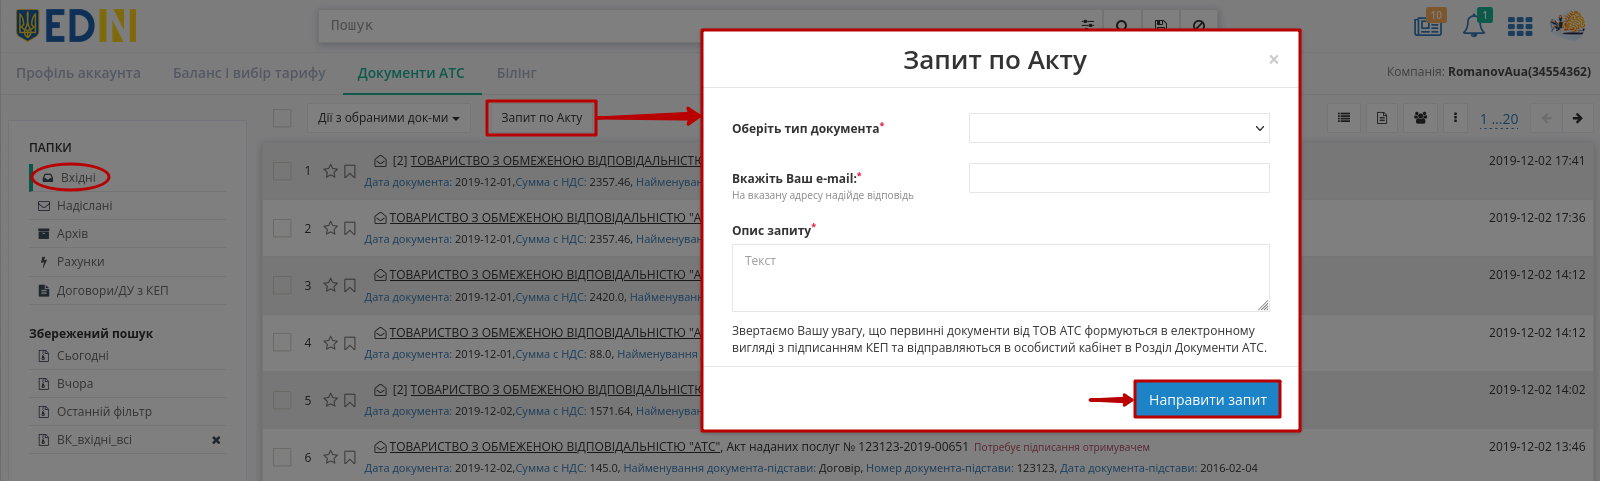
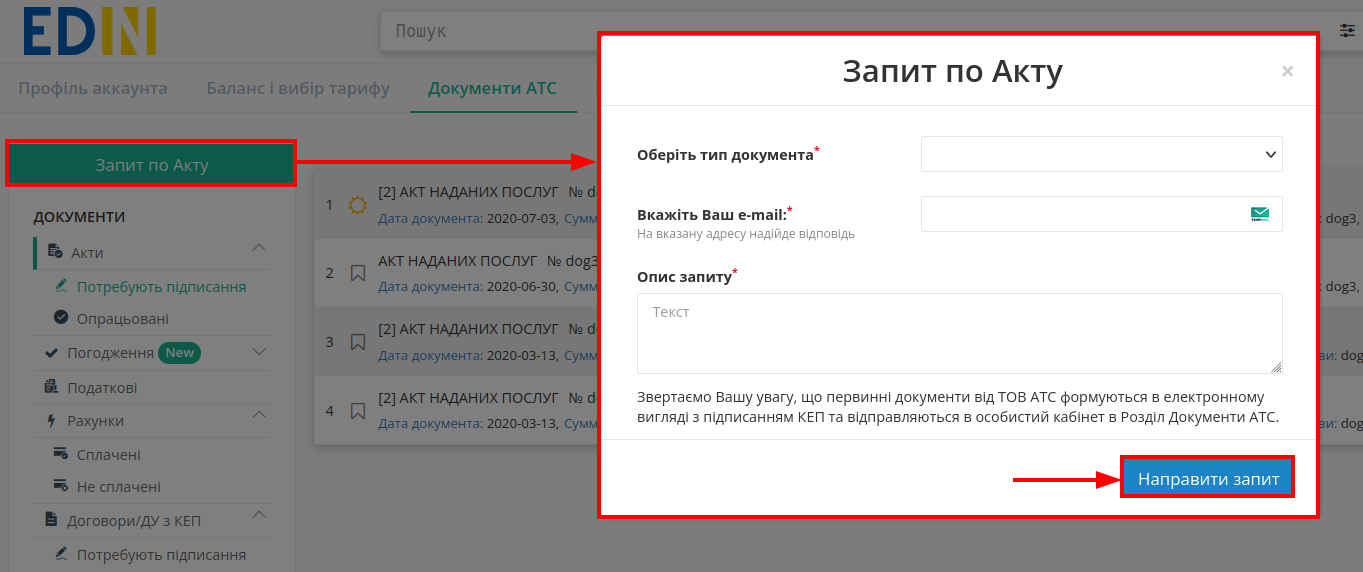
GLN_logo+

diff --git a/docs/Personal_Cabinet/PCInstruction.rst b/docs/Personal_Cabinet/PCInstruction.rst
@@ -809,28 +809,26 @@ WEB-платформа завжди нагадає, якщо у Вас є нео
 
 Відправка документа потребує його підписання (накладання підпису - стандартна операція на платформі, що `описана в розділі вище <https://wiki.edin.ua/uk/latest/Personal_Cabinet/PCInstruction.html#sign>`__. Після успішного підписання документа він автоматично відправляється в ТОВ "АТС" і відображається в журналі зі статусом :green:`Відправлений` чи :red:`Необхідний підпис провайдера`, якщо при відправці було обрано значення "Потребує підписання провайдером ТОВ АТС".
 
-.. забули вивантажити (to do)
+.. _act-request:
 
-   .. _act-request:
+**1.3.6 Запит по Акту**
+~~~~~~~~~~~~~~~~~~~~~~~~~~~~~~~~~~~~~~~~~~~~~~~~~~~~~~
 
-   **1.3.3 Запит по Акту**
-   ~~~~~~~~~~~~~~~~~~~~~~~~~~~~~~~~~~~~~~~~~~~~~~~~~~~~~~
+Функціонал доступний в папці **Вхідні** і дозволяє зробити **"Запит по Акту"** в компанію ТОВ "АТС" прямо з платформи:
 
-   Функціонал доступний в папці **Вхідні** і дозволяє зробити **"Запит по Акту"** в компанію ТОВ "АТС" прямо з платформи:
+.. image:: pics_PCInstruction/PCInstruction_259.png
+   :align: center
 
-   .. image:: pics_PCInstruction/PCInstruction_259.png
-      :align: center
+Після натискання на кнопку **"Запит по Акту"** відкривається модальне вікно з полями, що є обов'язковими до заповнення: "Тип документа" (Акт / Акт звірки), "Ваш e-mail", "Опис запиту". Після того, як Ви введете дані по запиту можливо **"Направити запит"** в компанію ТОВ "АТС". Про успішну відправку запиту Ви будете проінформовані сповіщенням на платформі:
 
-   Після натискання на кнопку **"Запит по Акту"** відкривається модальне вікно з полями, що є обов'язковими до заповнення: "Тип документа" (Акт / Акт звірки), "Ваш e-mail", "Опис запиту". Після того, як Ви введете дані по запиту можливо **"Направити запит"** в компанію ТОВ "АТС". Про успішну відправку запиту Ви будете проінформовані сповіщенням на платформі:
+.. image:: pics_PCInstruction/PCInstruction_260.png
+   :align: center
 
-   .. image:: pics_PCInstruction/PCInstruction_260.png
-      :align: center
-
-   Первинні документи від ТОВ "АТС" формуються в електронному вигляді з підписанням КЕП - Ви отримаєте їх у папці **Вхідні**. Додатково (за потреби) на вказаний e-mail може бути надіслано роз'яснення та копія документа.
+Первинні документи від ТОВ "АТС" формуються в електронному вигляді з підписанням КЕП - Ви отримаєте їх у розділі **Документи АТС**. Додатково (за потреби) на вказаний e-mail може бути надіслано роз'яснення та копія документа.
 
 .. _contracts-kep:
 
-**1.3.6 Надіслані**
+**1.3.7 Надіслані**
 ~~~~~~~~~~~~~~~~~~~~~~~~~~~~~~~~~~~~~~~~~~~~~~~~~~~~~~
 
 **"Надіслані"** містить всі вихідні документи для компанії-провайдера (відправлені в ТОВ "АТС").
@@ -840,7 +838,7 @@ WEB-платформа завжди нагадає, якщо у Вас є нео
 
 .. _signatories:
 
-**1.3.7 Підписанти**
+**1.3.8 Підписанти**
 ~~~~~~~~~~~~~~~~~~~~~~~~~~~~~~~~~~~~~~~~~~~~~~~~~~~~~~
 
 Користувачі можуть самостійно заповнювати/редагувати дані підписантів компанії, розділені по блокам:
@@ -1266,8 +1264,16 @@ WEB-платформа завжди нагадає, якщо у Вас є нео
 
 Після **створення** нового користувача автоматично відкривається **Форма редагування GLN**, в якій можливо змінити/доповнити **основну** інформацію:
 
-.. image:: pics_PCInstruction/PCInstruction_288.png
+.. image:: pics_PCInstruction/PCInstruction_309.png
    :align: center
+
+При **створенні** чи **редагуванні** **Основного GLN** можливо **"Завантажити логотип"** (за допомогою відповідної кнопки), що буде відображатись контрагентам:
+
+.. image:: pics_PCInstruction/PCInstruction_310.png
+   :align: center
+
+.. attention::
+   Для завантаження дозволені jpeg файли розміром не більше 1Мб зі співвідношенням сторін 3 до 1 (ширина / висота).
 
 .. _gln-main-additional: 
 

diff --git a/docs/API_PC/API_PC_list.rst b/docs/API_PC/API_PC_list.rst
@@ -222,6 +222,37 @@ API
    Methods/PutNotificationsSettings
    Methods/DelNotificationsSettings
 
+.. _gln-logo:
+
+Керування логотипами GLN
+============================
+
++-----------+------------------------------+----------------------------------------------------------------------------------------------------------+
+| **Метод** |        **URL запиту**        |                                                 **Опис**                                                 |
++===========+==============================+==========================================================================================================+
+| GET       | ``/api/oas/identifier/logo`` | `Отримати логотипи GLN <https://wiki.edin.ua/uk/latest/API_PC/Methods/GetIdentifierLogo.html>`__         |
++-----------+------------------------------+----------------------------------------------------------------------------------------------------------+
+| POST      | ``/api/oas/identifier/logo`` | `Додати / оновити логотип GLN <https://wiki.edin.ua/uk/latest/API_PC/Methods/PostIdentifierLogo.html>`__ |
++-----------+------------------------------+----------------------------------------------------------------------------------------------------------+
+| DELETE    | ``/api/oas/identifier/logo`` | `Видалити логотип GLN <https://wiki.edin.ua/uk/latest/API_PC/Methods/DelIdentifierLogo.html>`__          |
++-----------+------------------------------+----------------------------------------------------------------------------------------------------------+
+
+.. beauty list
+
+.. toctree::
+   :hidden:
+   :glob:
+
+   Methods/GetIdentifierLogo
+   Methods/PostIdentifierLogo
+   Methods/DelIdentifierLogo
+
+
+
+
+
+
+
 
 
 .. old auto list (deprecated)

diff --git a/docs/API_PC/Methods/EveryBody/GetIdentifierLogoResponse.rst b/docs/API_PC/Methods/EveryBody/GetIdentifierLogoResponse.rst
@@ -1,0 +1,34 @@
+#########################################################################
+**Дані прикріплених логотипів GLN**
+#########################################################################
+
+**JSON:**
+
+.. code:: json
+
+	[
+	    {
+	        "id": 176376,
+	        "mediaType": "image/jpeg",
+	        "logoBase64": "/9j.../3d"
+	    },
+	    {
+	        "id": 13200757,
+	        "mediaType": "image/jpeg",
+	        "logoBase64": "/9...jZ"
+	    },
+	    {
+	        "id": 13202863,
+	        "mediaType": "image/jpeg",
+	        "logoBase64": "/9j.../003d"
+	    }
+	]
+
+Таблиця 1 - Опис параметрів
+
+.. csv-table:: 
+  :file: for_csv/IdentifierLogo.csv
+  :widths:  1, 19, 41
+  :header-rows: 1
+  :stub-columns: 0
+

diff --git a/docs/API_PC/Methods/PostIdentifierLogo.rst b/docs/API_PC/Methods/PostIdentifierLogo.rst
@@ -1,0 +1,17 @@
+#############################################################################
+**Додати / оновити логотип GLN**
+#############################################################################
+
+Для роботи з цим методом користувач повинен бути `авторизованим <https://wiki.edin.ua/uk/latest/API_PC/Methods/Authorization.html>`__.
+
+.. attention::
+   Для завантаження дозволені jpeg файли розміром не більше 1Мб зі співвідношенням сторін 3 до 1 (ширина / висота).
+
+.. csv-table:: 
+  :file: PostIdentifierLogo.csv
+  :widths:  10, 41
+  :stub-columns: 0
+
+**RESPONSE**
+
+Код сервера 200 (ok).

diff --git a/docs/API_PC/Methods/GetIdentifierLogo.rst b/docs/API_PC/Methods/GetIdentifierLogo.rst
@@ -1,0 +1,14 @@
+######################################################################
+**Отримати логотипи GLN**
+######################################################################
+
+Для роботи з цим методом користувач повинен бути `авторизованим <https://wiki.edin.ua/uk/latest/API_PC/Methods/Authorization.html>`__.
+
+.. csv-table:: 
+  :file: GetIdentifierLogo.csv
+  :widths:  10, 41
+  :stub-columns: 0
+
+**RESPONSE**
+
+В тілі **відповіді** (json) передаються `дані прикріплених логотипів GLN <https://wiki.edin.ua/uk/latest/API_PC/Methods/EveryBody/GetIdentifierLogoResponse.html>`__.

diff --git a/docs/API_PC/Methods/DelIdentifierLogo.rst b/docs/API_PC/Methods/DelIdentifierLogo.rst
@@ -1,0 +1,14 @@
+######################################################################
+**Видалити логотип GLN**
+######################################################################
+
+Для роботи з цим методом користувач повинен бути `авторизованим <https://wiki.edin.ua/uk/latest/API_PC/Methods/Authorization.html>`__.
+
+.. csv-table:: 
+  :file: DelIdentifierLogo.csv
+  :widths:  10, 41
+  :stub-columns: 0
+
+**RESPONSE**
+
+Код сервера 200 (ok).
